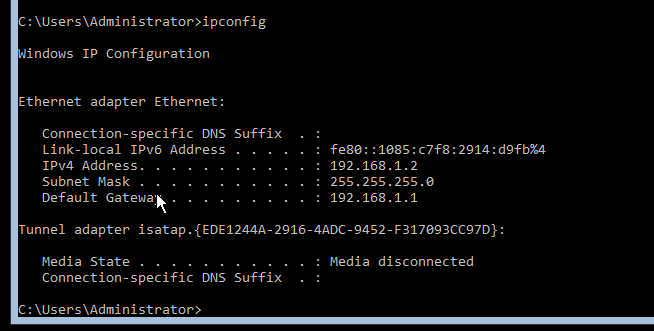
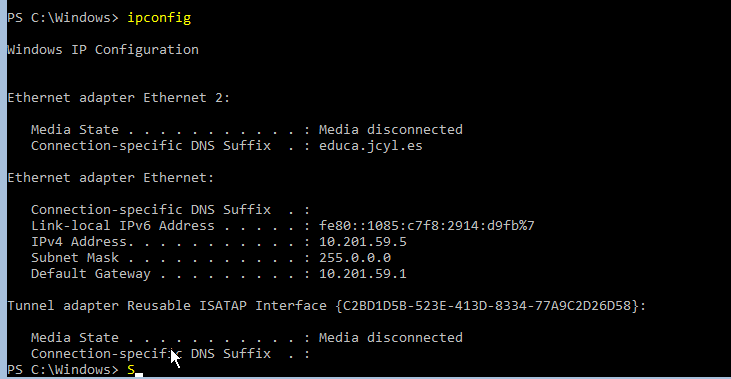
practica 1 t4

Changed region(s): [[0.0, 0.0, 1.0, 1.0], [0.4281, 0.8761, 0.6422, 0.9063]]

diff --git a/ut04/pr0401/pr0401.md b/ut04/pr0401/pr0401.md
@@ -3,17 +3,23 @@ En esta práctica vamos a realizar tareas de administración remota de un servid
 
 Primero instalamos las máquinas (2 de WS de 2016 y otra de 2019 en modo escritorio)
 
-Para cambiar el nombre del ordenador, tendremos que poner sconfig en los core
-![alt text](cap1.png)
+Para cambiar el nombre del ordenador, tendremos que poner en el powershell en los core
 
-Se nos abre lo siguiente
-![alt text](cap2.png)
+```powershell
+Rename-Computer -NewName "ILT-2019" -Restart
+```
 
-Le ecribimos el número 2 ya que es el que corresponde a cambiar el nombre del ordenador
-![alt text](cap3.png)
+Y 
 
-Y ahora si escribimos en la consola de comandos un hostname, nos sale el nombre que le acabamos de dar al ordenador
-![alt text](cap4.png)
+```powershell
+Rename-Computer -NewName "ILT-2016" -Restart
+```
+
+Y para comprobar que se ha cambiado, después de que se reinicie la máquina virtual, escribiremos el siguiente comando
+
+```powershell
+hostname
+```
 
 En el Windows Server de 2019 con entorno gráfico tendremos que entrar en el Powershell y escribir lo siguiente
 
@@ -22,19 +28,74 @@ Rename-Computer -NewName "ILT-Escritorio"
 ```
 
 Y como podemos observar, al escribir un hostname nos saldrá ya
+
 ![alt text](cap5.png)
+
+
+
 
 ## IPs estáticas
 
-Para cambiar la IP estática de los cores, entraremos de nuevo en el sconfig y buscamos la opción 8 y luego nuestro adaptador
-![alt text](cap6.png)
+Para cambiar la IP estática de los cores, tendremos que escribir los siguientes comandos en los cores
 
-Seleccionamos la primera opción y cuando nos pregunta sobre usar DHCP o IP estática, seleccionamos estática y luego le introduciremos la IP
-![alt text](cap7.png)
-![alt text](cap12.png)
+En el de 2016
+
+```powershell
+New-NetIPAddress `
+ -InterfaceAlias "Ethernet" `
+ -IPAddress 10.201.59.5 `
+ -PrefixLength 24 `
+ -DefaultGateway 10.201.59.1
+```
+
+En el de 2019
+
+```powershell
+New-NetIPAddress `
+ -InterfaceAlias "Ethernet" `
+ -IPAddress 10.201.59.3 `
+ -PrefixLength 24 `
+ -DefaultGateway 10.201.59.1
+```
+
+En el de entorno gráfico
+
+```powershell
+New-NetIPAddress `
+ -InterfaceAlias "Ethernet" `
+ -IPAddress 10.201.59.235 `
+ -PrefixLength 24 `
+ -DefaultGateway 10.201.59.1
+```
+
 
 Al salir y ejecutar un ipconfig podemos observar que se nos ha cambiado la dirección
 ![alt text](cap9.png)
 
-Ahora nos falta en el servidor de entorno gráfico, por lo tanto nos dirigimos a panel de control > y en las redes se lo cambiamos
-![alt text](cap11.png)
+
+Ahora editaremos el archivo de hosts de cada equipo
+
+Primero en el de la versión de modo gráfico, nos dirigimos a C:\Windows\System32\drivers\hosts y lo configuramos de la siguiente manera:
+
+![alt text](cap13.png)
+
+En los cores seguiremos la ruta del prompt y escribiremos "notepad .\hosts" para editar el archivo
+
+![alt text](cap14.png)
+
+Ahora, para que nos deje hacer ping en las máquinas y definitivamente tengamos conectividad entre las mismas, tendremos que deshabilitar el firewall en todas.
+
+Para deshabilitarlo desde el powershell, escribiremos lo siguiente en nuestra linea de comandos:
+
+```powershell
+Set-NetFirewallProfile `
+ -Profile Domain,Public,Private `
+ -Enabled False
+```
+
+![alt text](cap15.png)
+
+Y ahora, si hacemos un ping solamente poniendo el hostname de otro equipo, podemos ver que si nos conecta
+
+![alt text](cap16.png)
+
